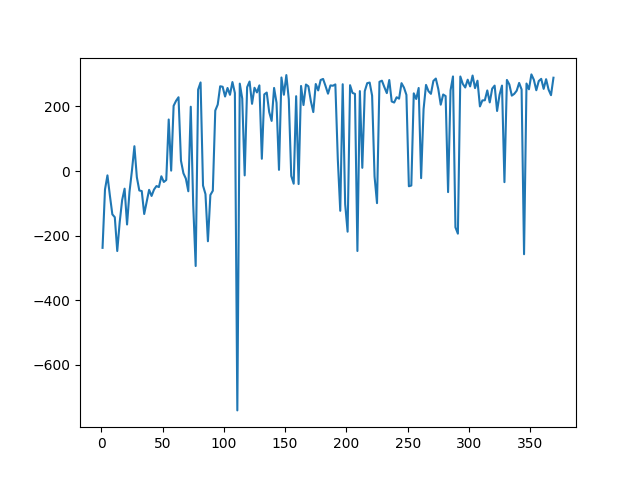
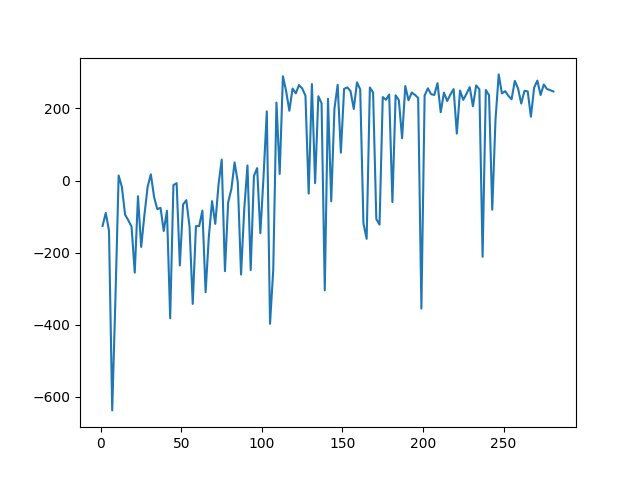
Data recording for DQN

diff --git a/dqn.py b/dqn.py
@@ -1,5 +1,6 @@
 import gym
 import random
+import json
 from keras import Sequential
 from collections import deque
 from keras.layers import Dense
@@ -102,6 +103,12 @@ def train_dqn(episode):
   # Plot avg
   plt.plot([i+1 for i in range(0, len(avg), 2)], avg[::2])
   plt.show()
+
+  # dump
+  with open('dqn_loss.json', 'w') as outfile:
+    json.dump(loss, outfile)
+  with open('dqn_avg.json', 'w') as outfile:
+    json.dump(avg, outfile)
   return loss
 
 

diff --git a/README.md b/README.md
@@ -47,10 +47,13 @@ Even after close to 10.000 epochs the algorithem was not able to get an positive
 episode: 9875/10000, score: -170.62709316449394
 Average over last 100 episode: -198.05
 ```
-It is clearly possible to see an improvement over time, but after more then 10h of training the goal of the gym was not met:
-TODO learning curve
-![alt text](gradient_graph_avg.png "Gradient graph (avg)")
-![alt text](gradient_graph.png "Gradient graph")
+It is clearly possible to see an improvement from epoch 8000 onwards, but after more then 10h of training the goal of the gym was not met:
+
+![alt text](SDG_avg_graph.png "Gradient graph (avg)")
+
+The not averaged version also shows, that even after 8000 epochs there is no consistency.
+
+![alt text](SDG_graph.png "Gradient graph")
 
 Here are some recordings while training:
 
@@ -112,9 +115,13 @@ The final result was able to land nearly every time:
 
 (5x speed)
 
-Progress graph (X-Axsis: Epoch; Y-Axsis: Score):
+In a second run the algorithem reached the goal even sooner after 280 epochs. Progress graph (X-Axsis: Epoch; Y-Axsis: Score):
 
 ![alt text](DQN_graph.png "DQN Progress")
+
+The lerning progress is even better shown by the averaged version:
+
+![alt text](DQN_avg_graph.png "DQN Progress avg")
 
 # Results
 
